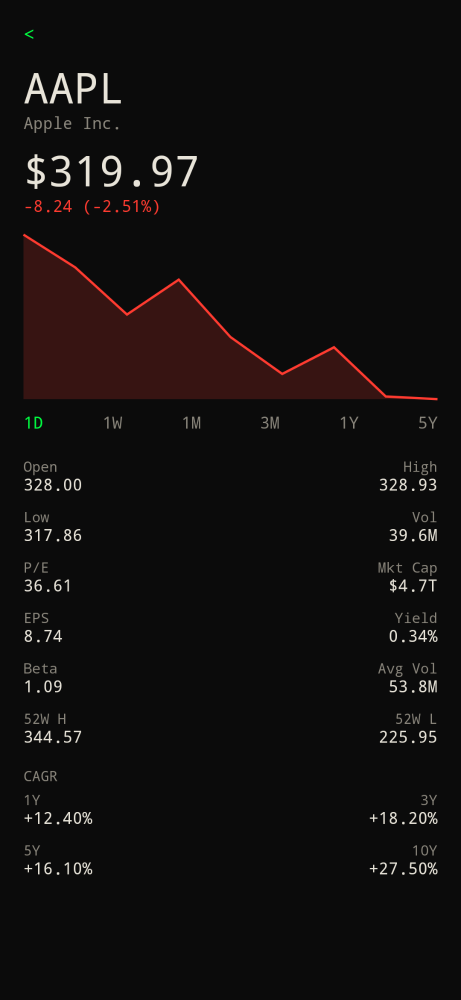
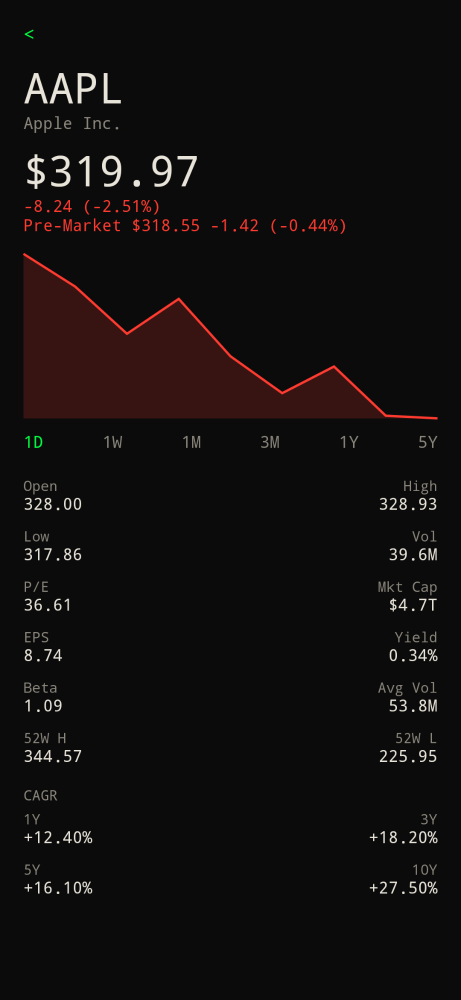
feat: show pre-market and after hours on stock detail (#44)
When Yahoo has extended-hours data, the ticker page shows Pre-Market
or After Hours under the regular close. Names without it stay unchanged.

diff --git a/app/src/main/java/xyz/cdr/builderlauncher/stocks/YahooFinance.kt b/app/src/main/java/xyz/cdr/builderlauncher/stocks/YahooFinance.kt
@@ -2,6 +2,7 @@ package xyz.cdr.builderlauncher.stocks
 
 import kotlinx.serialization.json.Json
 import kotlinx.serialization.json.JsonObject
+import kotlinx.serialization.json.booleanOrNull
 import kotlinx.serialization.json.contentOrNull
 import kotlinx.serialization.json.doubleOrNull
 import kotlinx.serialization.json.jsonArray
@@ -41,8 +42,14 @@ data class StockQuote(
     val eps: Double? = null,
     val beta: Double? = null,
     val avgVolume: Long? = null,
+    val extendedLabel: String? = null,
+    val extendedPrice: Double? = null,
+    val extendedChange: Double? = null,
+    val extendedPercent: Double? = null,
 ) {
     val up: Boolean get() = change >= 0
+    val hasExtended: Boolean
+        get() = !extendedLabel.isNullOrBlank() && extendedPrice != null
 }
 
 data class StockChartData(
@@ -96,7 +103,7 @@ object YahooFinance {
         }.distinctBy { it.symbol }.take(limit)
     }
 
-    fun parseChart(raw: String): StockChartData? {
+    fun parseChart(raw: String, nowSec: Long = System.currentTimeMillis() / 1000L): StockChartData? {
         val root = runCatching { Json.parseToJsonElement(raw).jsonObject }.getOrNull() ?: return null
         val chart = root["chart"]?.jsonObject ?: return null
         if (chart["error"] != null && chart["error"].toString() != "null") return null
@@ -122,6 +129,12 @@ object YahooFinance {
         val dayHigh = meta.num("regularMarketDayHigh") ?: highs?.filterNotNull()?.maxOrNull()
         val dayLow = meta.num("regularMarketDayLow") ?: lows?.filterNotNull()?.minOrNull()
         val volume = meta.long("regularMarketVolume") ?: volumes?.filterNotNull()?.lastOrNull()
+        val extendedLabel = extendedSession(
+            nowSec = nowSec,
+            hasPrePost = meta.bool("hasPrePostMarketData") == true,
+            periods = meta["currentTradingPeriod"]?.jsonObject,
+        )
+        val extendedPrice = if (extendedLabel != null) meta.num("fulldayPrice") else null
         return StockChartData(
             quote = StockQuote(
                 symbol = symbol,
@@ -137,6 +150,10 @@ object YahooFinance {
                 volume = volume,
                 week52High = meta.num("fiftyTwoWeekHigh"),
                 week52Low = meta.num("fiftyTwoWeekLow"),
+                extendedLabel = if (extendedPrice != null) extendedLabel else null,
+                extendedPrice = extendedPrice,
+                extendedChange = if (extendedPrice != null) meta.num("fulldayChange") else null,
+                extendedPercent = if (extendedPrice != null) meta.num("fulldayChangePercent") else null,
             ),
             points = points,
             volumes = volumes?.filterNotNull().orEmpty(),
@@ -170,6 +187,28 @@ object YahooFinance {
         val reported = last["reportedValue"]?.jsonObject
         return reported?.num("raw") ?: last.num("dataValue") ?: last.num("raw")
     }
+
+    private fun extendedSession(nowSec: Long, hasPrePost: Boolean, periods: JsonObject?): String? {
+        if (!hasPrePost || periods == null) return null
+        val pre = periods["pre"]?.jsonObject
+        val regular = periods["regular"]?.jsonObject
+        val post = periods["post"]?.jsonObject
+        val preStart = pre?.long("start")
+        val preEnd = pre?.long("end")
+        val regStart = regular?.long("start")
+        val regEnd = regular?.long("end")
+        val postStart = post?.long("start")
+        val postEnd = post?.long("end")
+        if (preStart != null && preEnd != null && nowSec in preStart..preEnd) return "Pre-Market"
+        if (postStart != null && postEnd != null && nowSec in postStart..postEnd) return "After Hours"
+        if (regStart != null && regEnd != null && nowSec in regStart..regEnd) return null
+        if (regEnd != null && nowSec > regEnd) return "After Hours"
+        if (preStart != null && nowSec < preStart) return "After Hours"
+        return null
+    }
+
+    private fun JsonObject.bool(key: String): Boolean? =
+        this[key]?.jsonPrimitive?.booleanOrNull
 
     private fun JsonObject.str(key: String): String? =
         this[key]?.jsonPrimitive?.contentOrNull?.trim()?.takeIf { it.isNotEmpty() }

diff --git a/app/src/test/java/xyz/cdr/builderlauncher/stocks/StocksTest.kt b/app/src/test/java/xyz/cdr/builderlauncher/stocks/StocksTest.kt
@@ -213,6 +213,74 @@ class YahooFinanceTest {
         assertEquals(listOf(328.0, 322.5, 319.97), chart.points.map { it.close })
         assertEquals(listOf(1L, 2L, 4L), chart.points.map { it.time })
         assertEquals(listOf(100L, 200L, 300L), chart.volumes)
+        assertNull(chart.quote.extendedLabel)
+        assertNull(chart.quote.extendedPrice)
+    }
+
+    @Test
+    fun parsesPreMarketWhenAvailable() {
+        val raw = """
+            {"chart":{"result":[{
+              "meta":{
+                "currency":"USD",
+                "symbol":"AAPL",
+                "shortName":"Apple Inc.",
+                "regularMarketPrice":319.97,
+                "chartPreviousClose":328.21,
+                "hasPrePostMarketData":true,
+                "fulldayPrice":318.55,
+                "fulldayChange":-1.42,
+                "fulldayChangePercent":-0.444,
+                "currentTradingPeriod":{
+                  "pre":{"start":100,"end":200},
+                  "regular":{"start":200,"end":300},
+                  "post":{"start":300,"end":400}
+                }
+              },
+              "timestamp":[1,2],
+              "indicators":{"quote":[{"close":[319.97, 318.55]}]}
+            }],"error":null}}
+        """.trimIndent()
+        val pre = YahooFinance.parseChart(raw, nowSec = 150)!!.quote
+        assertEquals("Pre-Market", pre.extendedLabel)
+        assertEquals(318.55, pre.extendedPrice!!, 0.001)
+        assertEquals(-1.42, pre.extendedChange!!, 0.001)
+        assertEquals("Pre-Market $318.55 -1.42 (-0.44%)", Stocks.formatExtended(pre))
+        val after = YahooFinance.parseChart(raw, nowSec = 350)!!.quote
+        assertEquals("After Hours", after.extendedLabel)
+        assertEquals("After Hours $318.55 -1.42 (-0.44%)", Stocks.formatExtended(after))
+        val regular = YahooFinance.parseChart(raw, nowSec = 250)!!.quote
+        assertNull(regular.extendedLabel)
+        assertNull(Stocks.formatExtended(regular))
+    }
+
+    @Test
+    fun skipsExtendedWhenFeedHasNone() {
+        val raw = """
+            {"chart":{"result":[{
+              "meta":{
+                "currency":"GBp",
+                "symbol":"SHEL.L",
+                "shortName":"Shell PLC",
+                "regularMarketPrice":3494.5,
+                "chartPreviousClose":3483.0,
+                "hasPrePostMarketData":false,
+                "fulldayPrice":3494.5,
+                "fulldayChange":11.5,
+                "fulldayChangePercent":0.33,
+                "currentTradingPeriod":{
+                  "pre":{"start":100,"end":200},
+                  "regular":{"start":200,"end":300},
+                  "post":{"start":300,"end":400}
+                }
+              },
+              "timestamp":[1],
+              "indicators":{"quote":[{"close":[3494.5]}]}
+            }],"error":null}}
+        """.trimIndent()
+        val quote = YahooFinance.parseChart(raw, nowSec = 150)!!.quote
+        assertNull(quote.extendedLabel)
+        assertNull(Stocks.formatExtended(quote))
     }
 
     @Test

diff --git a/app/src/main/java/xyz/cdr/builderlauncher/ui/BuilderRoot.kt b/app/src/main/java/xyz/cdr/builderlauncher/ui/BuilderRoot.kt
@@ -1665,6 +1665,7 @@ fun BuilderRoot(
                 val symbol = stockSymbol.orEmpty()
                 val day = stockChart?.quote ?: quotes[symbol]
                 val extra = stockDetails?.quote
+                val live = quotes[symbol]
                 val quote = day?.copy(
                     pe = extra?.pe,
                     marketCap = extra?.marketCap,
@@ -1672,6 +1673,10 @@ fun BuilderRoot(
                     eps = extra?.eps,
                     beta = extra?.beta,
                     avgVolume = extra?.avgVolume,
+                    extendedLabel = live?.extendedLabel ?: day.extendedLabel ?: extra?.extendedLabel,
+                    extendedPrice = live?.extendedPrice ?: day.extendedPrice ?: extra?.extendedPrice,
+                    extendedChange = live?.extendedChange ?: day.extendedChange ?: extra?.extendedChange,
+                    extendedPercent = live?.extendedPercent ?: day.extendedPercent ?: extra?.extendedPercent,
                 ) ?: extra
                 val item = watch.firstOrNull { it.symbol.equals(symbol, ignoreCase = true) }
                 val name = quote?.name ?: item?.name ?: symbol
@@ -1710,6 +1715,15 @@ fun BuilderRoot(
                     )
                     if (changeLine.isNotBlank()) {
                         Text(changeLine, color = tone, style = MaterialTheme.typography.bodyMedium)
+                    }
+                    val extendedLine = quote?.let { Stocks.formatExtended(it) }.orEmpty()
+                    if (extendedLine.isNotBlank()) {
+                        val extendedUp = (quote?.extendedChange ?: 0.0) >= 0.0
+                        Text(
+                            extendedLine,
+                            color = if (extendedUp) Gain else Loss,
+                            style = MaterialTheme.typography.bodyMedium,
+                        )
                     }
                     Spacer(Modifier.height(16.dp))
                     StockChart(

diff --git a/app/src/main/java/xyz/cdr/builderlauncher/ui/LauncherChrome.kt b/app/src/main/java/xyz/cdr/builderlauncher/ui/LauncherChrome.kt
@@ -526,6 +526,8 @@ fun StockDetailChrome(
     range: StockRange = StockRange.D1,
     stats: List<StockStatLine> = emptyList(),
     cagr: List<StockStatLine> = emptyList(),
+    extendedLine: String = "",
+    extendedUp: Boolean = true,
 ) {
     val tone = if (up) Gain else Loss
     Column(
@@ -541,6 +543,13 @@ fun StockDetailChrome(
         Spacer(Modifier.height(12.dp))
         Text(price, color = Paper, style = MaterialTheme.typography.headlineLarge)
         Text(changeLine, color = tone, style = MaterialTheme.typography.bodyMedium)
+        if (extendedLine.isNotBlank()) {
+            Text(
+                extendedLine,
+                color = if (extendedUp) Gain else Loss,
+                style = MaterialTheme.typography.bodyMedium,
+            )
+        }
         Spacer(Modifier.height(16.dp))
         StockChart(points = points, up = up, modifier = Modifier.fillMaxWidth().height(140.dp))
         Spacer(Modifier.height(12.dp))

diff --git a/app/src/main/java/xyz/cdr/builderlauncher/stocks/Stocks.kt b/app/src/main/java/xyz/cdr/builderlauncher/stocks/Stocks.kt
@@ -184,6 +184,19 @@ object Stocks {
         return volumes.average().toLong()
     }
 
+    fun formatExtended(quote: StockQuote): String? {
+        val label = quote.extendedLabel?.takeIf { it.isNotBlank() } ?: return null
+        val extendedPrice = quote.extendedPrice ?: return null
+        val price = formatPrice(extendedPrice, quote.currency)
+        val change = quote.extendedChange
+        val percent = quote.extendedPercent
+        return when {
+            change != null && percent != null ->
+                "$label $price ${formatChange(change)} (${formatPercent(percent)})"
+            else -> "$label $price"
+        }
+    }
+
     fun quoteStats(quote: StockQuote): List<StockStatLine> = listOf(
         StockStatLine("Open", formatNumber(quote.open), "High", formatNumber(quote.high)),
         StockStatLine("Low", formatNumber(quote.low), "Vol", quote.volume?.let { formatVolume(it) } ?: "—"),

diff --git a/app/src/test/java/xyz/cdr/builderlauncher/ui/LauncherScreenshotTest.kt b/app/src/test/java/xyz/cdr/builderlauncher/ui/LauncherScreenshotTest.kt
@@ -264,6 +264,8 @@ class LauncherScreenshotTest {
                     price = "$319.97",
                     changeLine = "-8.24 (-2.51%)",
                     up = false,
+                    extendedLine = "Pre-Market $318.55 -1.42 (-0.44%)",
+                    extendedUp = false,
                     points = points,
                     range = xyz.cdr.builderlauncher.stocks.StockRange.D1,
                     stats = Stocks.quoteStats(

diff --git a/app/src/main/java/xyz/cdr/builderlauncher/stocks/StocksRepository.kt b/app/src/main/java/xyz/cdr/builderlauncher/stocks/StocksRepository.kt
@@ -217,6 +217,7 @@ class StocksRepository(
                 .addPathSegment(symbol)
                 .addQueryParameter("range", range)
                 .addQueryParameter("interval", interval)
+                .addQueryParameter("includePrePost", "true")
                 .build()
             runCatching {
                 http.newCall(request(url)).execute().use { resp ->

diff --git a/website/src/content/docs/use/stocks.md b/website/src/content/docs/use/stocks.md
@@ -38,7 +38,7 @@ App search that looks like "stocks" shows `… all stocks >`.
 
 ![Ticker detail with 1D chart, timeframes, and stats](../../../assets/screenshots/stock-detail.png)
 
-Timeframes: **1D / 1W / 1M / 3M / 1Y / 5Y**. Stats: open, high, low, volume, P/E, market cap, EPS, yield, beta, average volume, 52-week high/low. CAGR for 1Y / 3Y / 5Y / 10Y sits under the stats.
+Timeframes: **1D / 1W / 1M / 3M / 1Y / 5Y**. Under the regular close, **Pre-Market** or **After Hours** shows when Yahoo has it (US names usually; LSE, TSX, crypto usually not). Stats: open, high, low, volume, P/E, market cap, EPS, yield, beta, average volume, 52-week high/low. CAGR for 1Y / 3Y / 5Y / 10Y sits under the stats.
 
 Quotes, search, charts, and fundamentals come from Yahoo Finance. Home also refreshes quotes when the watchlist is not empty. Search and charts wait until you open stocks or pick a ticker.
 
